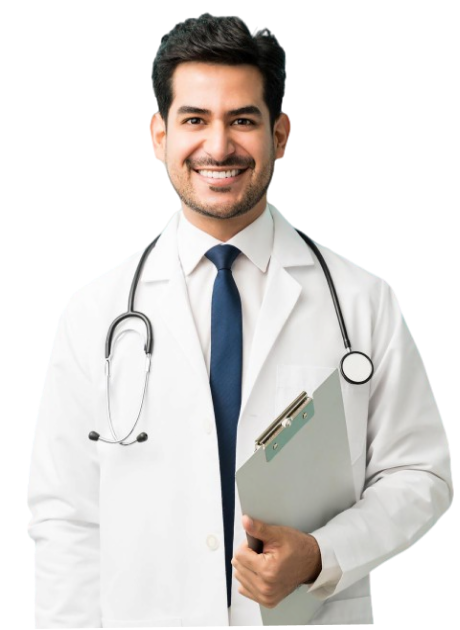
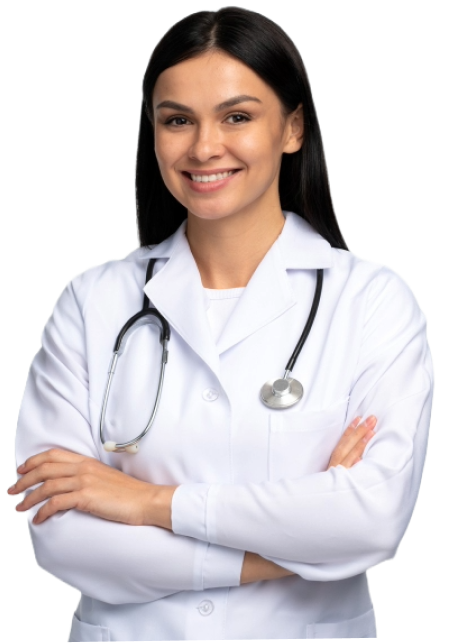
changes

diff --git a/src/pages/index.tsx b/src/pages/index.tsx
@@ -12,7 +12,7 @@ import Doctors from "@/views/Home/Doctors";
 // // import Subscriptions from "@/views/Home/Subscriptions";
 // // import Reviews from "@/views/Home/Reviews";
 import Blogs from "@/views/Home/Blogs";
-// import Partners from "@/views/Home/Partners";
+import Partners from "@/views/Home/Partners";
 import GetApp from "@/views/Home/GetApp";
 import { BASE_URL } from "@/helper/CONST";
 import fav from "../../public/favicon.ico";
@@ -43,11 +43,11 @@ export default function Home({ positions, doctors }: any) {
         <Features />
 
         <Working />
-        {/* <Doctors doc={doctors} /> */}
+        <Doctors doc={doctors} />
         {/* <Subscriptions /> */}
         {/* <Reviews />*/}
         <Blogs blogs={positions} />
-        {/* <Partners /> */}
+        <Partners />
         <GetApp />
       </main>
     </>

diff --git a/src/pages/_app.tsx b/src/pages/_app.tsx
@@ -2,13 +2,15 @@ import "@/styles/index.scss";
 import type { AppProps } from "next/app";
 import Header from "@/views/Header";
 import Footer from "@/views/Footer";
-
+import { useRouter } from "next/router";
 export default function App({ Component, pageProps }: AppProps) {
+  let router = useRouter();
+  console.log(router.pathname);
   return (
     <>
-      <Header />
+      {router.pathname === "/blog/second/[id]" || <Header />}
       <Component {...pageProps} />
-      <Footer />
+      {router.pathname === "/blog/second/[id]" || <Footer />}
     </>
   );
 }

diff --git a/src/views/Home/Doctors.tsx b/src/views/Home/Doctors.tsx
@@ -89,7 +89,7 @@ export default function Doctors({ doc }: { doc: any }) {
                     Fee Rs. {doc.videoCallCharges}
                   </p>
                   <Link
-                    href={"/bookappointment/" + doc.Id}
+                    href={"/doctors/" + doc.Id + "/booked"}
                     className="linkBtn"
                     style={{ width: "60%", textAlign: "center" }}
                   >

diff --git a/src/views/Header/index.tsx b/src/views/Header/index.tsx
@@ -317,7 +317,7 @@ const Header: React.FC<HeaderProps> = ({}) => {
                   >
                     <span className="flex col-gap-1">
                       <FaPhone />
-                      0300-3461156
+                      042-3230479
                     </span>
                   </Button>
                 </>

diff --git a/src/views/Home/Services.tsx b/src/views/Home/Services.tsx
@@ -22,7 +22,7 @@ const services = [
   },
   {
     heading: "Home Nursing",
-    text: "Book home nursing servicce",
+    text: "Book home nursing services",
     link: "/",
     icon: service3,
   },
